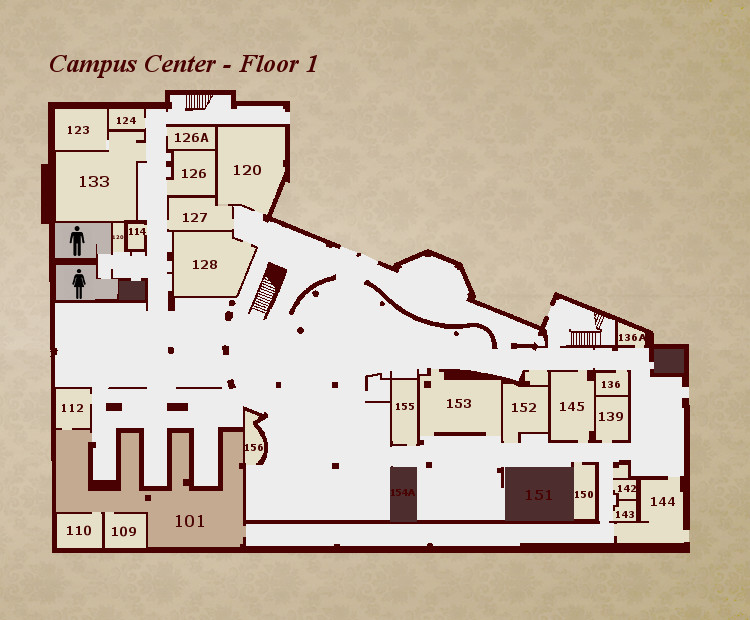
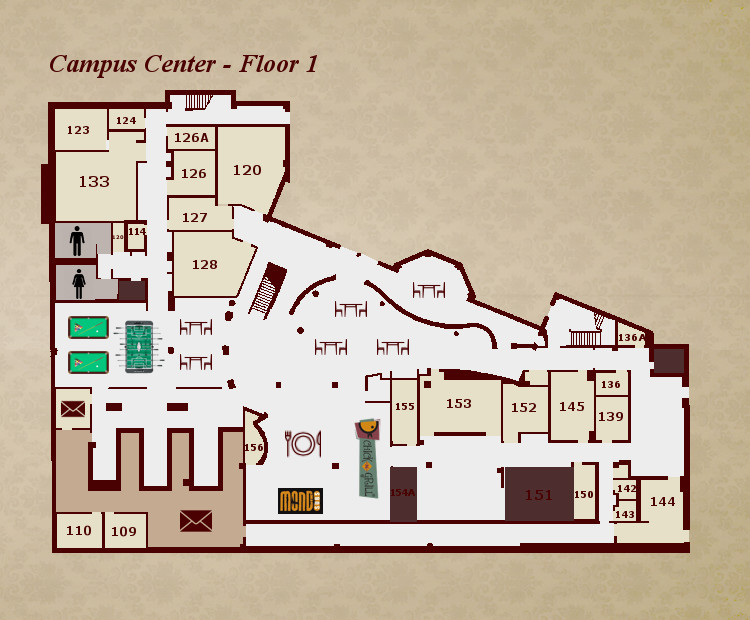
Added edited campus centre map and new campus maps

diff --git a/GetThere/src/EndUserGUI.java b/GetThere/src/EndUserGUI.java
@@ -125,7 +125,7 @@ public class EndUserGUI extends JPanel implements ActionListener{
 	private JButton history;
 	private JButton transport;
 	private Icon transportIcon;
-	private JButton nearestBathroom;
+	private JComboBox<Object> nearestLocation;
 	private Icon bathroomIcon;
 
 	private JButton tutorial;
@@ -503,15 +503,14 @@ public class EndUserGUI extends JPanel implements ActionListener{
 				}
 			}
 		});
-
-		bathroomIcon = new ImageIcon("IconImages/bathroomIcon.png");
+		Object[] nearestSpots = {new ImageIcon("IconImages/bathroomIcon.png"), new ImageIcon("IconImages/blueTowerIcon.png")};
+		bathroomIcon = new ImageIcon("");
 		Icon bathroomIconBIG = new ImageIcon("IconImages/bathroomIconBIG.png");
-		nearestBathroom = new JButton();
-		nearestBathroom.setToolTipText("Find nearest Bathroom");
-		nearestBathroom.setIcon(bathroomIcon);
-		nearestBathroom.setBounds(1017, 632, 40, 40);
-		uiPanel.add(nearestBathroom);
-		nearestBathroom.addActionListener(new ActionListener() {
+		nearestLocation = new JComboBox<Object>(nearestSpots);
+		nearestLocation.setToolTipText("Find nearest Location");
+		nearestLocation.setBounds(1017, 632, 40, 40);
+		uiPanel.add(nearestLocation);
+		nearestLocation.addActionListener(new ActionListener() {
 			public void actionPerformed(ActionEvent e)
 			{
 				String[] bathroomTypes = {"Female", "Male"};

diff --git a/GetThere/src/Map.java b/GetThere/src/Map.java
@@ -101,4 +101,9 @@ public class Map implements Serializable{
 				edges.remove(i);
 		}
 	}
+	
+	@Override
+	 public String toString() {
+	  return this.mapName;
+	 }
 }
